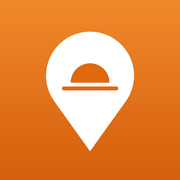
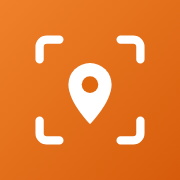
アイコンをファインダー型に変更（1.0.1）
- icon-512 / icon-192 / apple-touch-icon をファインダーの四隅でピンを囲むデザインに差し替え
- Android の丸型表示用に icon-maskable-512.png を追加し、manifest の maskable をこれに変更
- 元データとして icons/icon.svg を追加
- Service Worker のキャッシュ名と APP_VERSION を 1.0.1 に更新

Claude-Session: https://claude.ai/code/session_01SV1yxSzNu6ZKFW4vMfcPXi

diff --git a/sw.js b/sw.js
@@ -1,6 +1,6 @@
 // オフラインでも開けるようにするしくみ（Service Worker）
 // 方針：通信できるときは最新版を取り、できないときは保存しておいた版を使う。
-const CACHE = 'locahan-v1.0.0';
+const CACHE = 'locahan-v1.0.1';
 const SHELL = [
   './',
   './index.html',
@@ -23,6 +23,7 @@ const SHELL = [
   './icons/apple-touch-icon.png',
   './icons/icon-192.png',
   './icons/icon-512.png',
+  './icons/icon-maskable-512.png',
 ];
 
 self.addEventListener('install', (e) => {

diff --git a/js/app.js b/js/app.js
@@ -15,7 +15,7 @@ import { startCompass, stopCompass } from './compass.js';
 import { exportBackup, importBackup } from './backup.js';
 import { fetchWeather, manualWeather, weatherText, weatherIcon, MANUAL_KINDS, KINDS } from './weather.js';
 
-const APP_VERSION = '1.0.0';
+const APP_VERSION = '1.0.1';
 const DEFAULT_TAGS = ['歩道橋', '坂', '人が少ない', '階段', '路地', '川沿い', '夜景向き'];
 
 const $ = (id) => document.getElementById(id);
